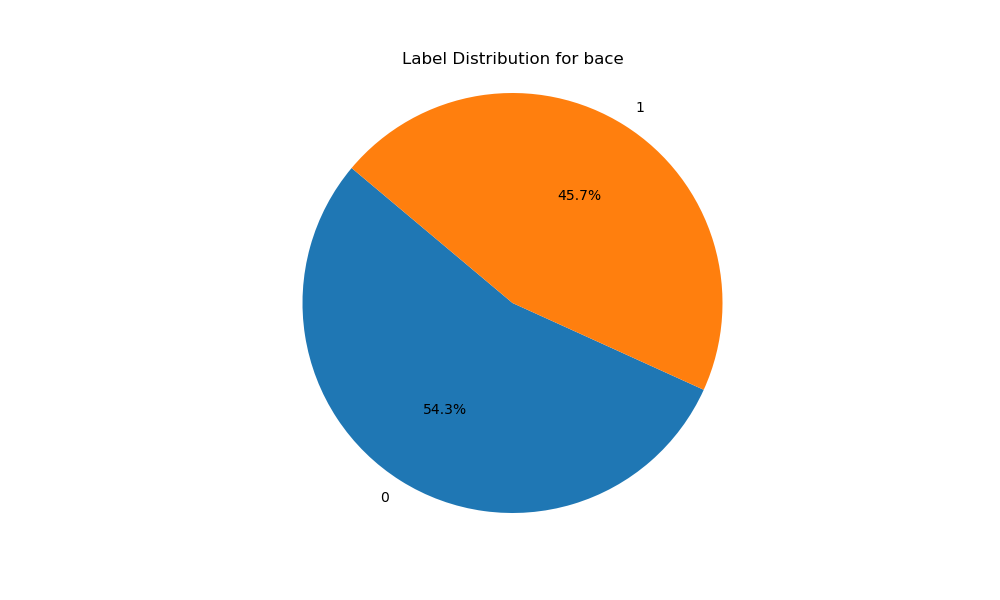
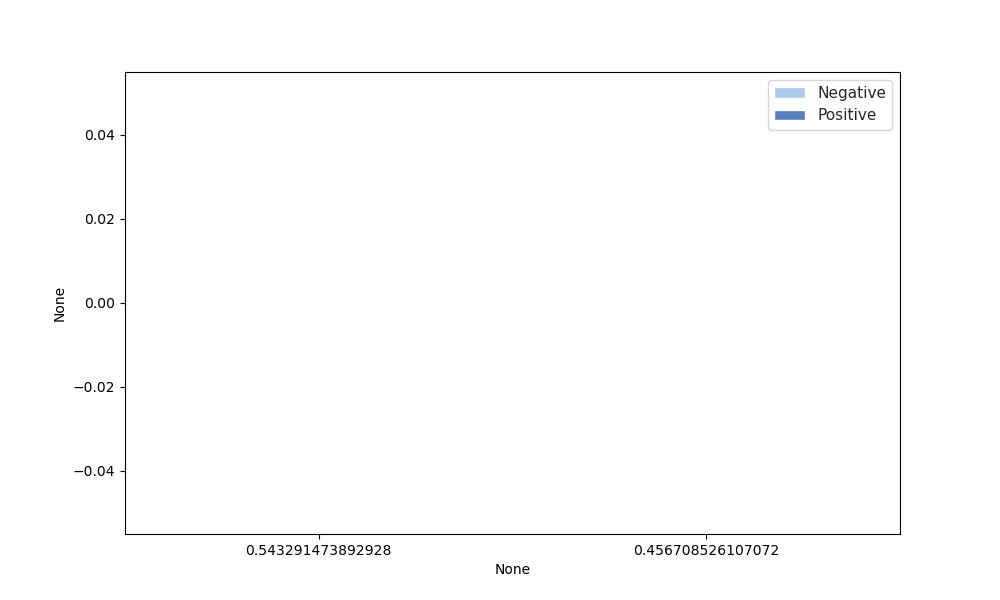
wip

diff --git a/3DInfomax/dataset_statistics/LabelPlotter.py b/3DInfomax/dataset_statistics/LabelPlotter.py
@@ -13,14 +13,41 @@ class LabelPlotter:
     def visualize_label_distribution(self, dataset_name=None):
         if dataset_name in ["lipo", "freesolve", "esol"]:
             self._visualize_regression_label_distribution(dataset_name)
-        elif dataset_name in ["bbbp", "bace", "hiv"]:
-            # Classification datasets with only 1 task
-            self._visualize_single_class_label_distribution(dataset_name)
-        elif dataset_name in ["clintox"]:
-            # Classification datasets with only 2 tasks
-            self._visualize_clintox_label_distribution(dataset_name)
-        elif dataset_name in ["toxcast", "sider", "tox21", "clintox"]:
-            self._visualize_many_class_label_distribution(dataset_name)
+        else:
+            self._visualize_classification_label_distribution(dataset_name)
+
+    def _visualize_classification_label_distribution(self, dataset_name=None):
+        dataset = OGBGDatasetExtension(name=f'ogbg-mol{dataset_name}', return_types=['targets'], device='cuda')
+        # Each label is a tensor with multiple elements/tasks
+        labels = [dataset[i][0].tolist() for i in range(len(dataset))]
+        
+        # for each task compute the ratio of positive and negative lalels
+        label_counts = pd.DataFrame(labels).apply(lambda x: x.value_counts(), axis=0)
+        # Compute the ratio of positive and negative labels without removing the NaN values. Act as the length of eask task are the positive and negative labels combined
+        negative_percentage = label_counts.iloc[0, :] / (label_counts.iloc[0, :] + label_counts.iloc[1, :])
+        # Sort the labels by the ratio of negative labels
+        negative_percentage = negative_percentage.sort_values(ascending=False)
+        positive_percentage = 1 - negative_percentage
+        
+        # Use the sns barplot to plot the ratio of positive and negative labels
+        f, ax = plt.subplots(figsize=(10, 6))
+        sns.set_theme(style="whitegrid")
+        sns.set_color_codes("pastel")
+
+        # Background bar (Negative)
+        sns.barplot(x=negative_percentage, y=negative_percentage.index, label="Negative", color="b")
+        # Overlay bar (Positive)
+        sns.set_color_codes("muted")
+        sns.barplot(x=positive_percentage, y=positive_percentage.index, label="Positive", color="b")
+        # Save the figure
+        output_dir = "dataset_statistics/figures/label_distribution"
+        os.makedirs(output_dir, exist_ok=True)
+        output_path = f"{output_dir}/{dataset_name}_label_distribution.png"
+        plt.savefig(output_path)
+        plt.show()
+
+        
+
 
     def _visualize_clintox_label_distribution(self, dataset_name=None):
 
@@ -98,23 +125,54 @@ class LabelPlotter:
         plt.savefig(output_path)
         plt.show()       
 
-    def _visualize_single_class_label_distribution(self, dataset_name=None):
-        # Load the dataset
-        dataset = OGBGDatasetExtension(name=f'ogbg-mol{dataset_name}', return_types=['targets'], device='cuda')
-        labels = [dataset[i][0].item() for i in range(len(dataset))]
-        # Make a pie chart for these labels
-        label_counts = pd.Series(labels).value_counts()
-        plt.figure(figsize=(10, 6))
-        plt.pie(label_counts, labels=label_counts.index, autopct='%1.1f%%', startangle=140)
-        plt.title(f"Label Distribution for {dataset_name}")
-        plt.axis('equal')  # Equal aspect ratio ensures that pie is drawn as a circle.
-        plt.grid()
-        # Save the figure
-        output_dir = "dataset_statistics/figures/label_distribution"
-        os.makedirs(output_dir, exist_ok=True)
-        output_path = f"{output_dir}/{dataset_name}_label_distribution.png"
-        plt.savefig(output_path)
-        plt.show()
+
+def _visualize_single_class_label_distribution(self, dataset_name=None):
+    # Load the dataset
+    dataset = OGBGDatasetExtension(name=f'ogbg-mol{dataset_name}', return_types=['targets'], device='cuda')
+    labels = [dataset[i][0].item() for i in range(len(dataset))]
+
+    # Compute counts
+    label_counts = pd.Series(labels).value_counts().sort_index()
+    total = label_counts.sum()
+    positive = label_counts.get(1, 0)
+    negative = label_counts.get(0, 0)
+
+    # Data for plotting
+    plot_df = pd.DataFrame({
+        'Label': ['All', 'All'],
+        'Type': ['Negative', 'Positive'],
+        'Ratio': [negative / total, positive / total]
+    })
+
+    # Initialize the matplotlib figure
+    sns.set_theme(style="whitegrid")
+    f, ax = plt.subplots(figsize=(6, 1.5))
+
+    # Background bar (Negative)
+    sns.set_color_codes("pastel")
+    sns.barplot(x="Ratio", y="Label", data=plot_df[plot_df["Type"] == "Negative"],
+                label="Negative", color="b")
+
+    # Overlay bar (Positive)
+    sns.set_color_codes("muted")
+    sns.barplot(x="Ratio", y="Label", data=plot_df[plot_df["Type"] == "Positive"],
+                label="Positive", color="b")
+
+    # Add legend and axis labels
+    ax.legend(ncol=2, loc="lower center", frameon=True, bbox_to_anchor=(0.5, -0.5))
+    ax.set(xlim=(0, 1), ylabel="", xlabel="Proportion")
+    sns.despine(left=True, bottom=True)
+
+    # Save the figure
+    output_dir = "dataset_statistics/figures/label_distribution"
+    os.makedirs(output_dir, exist_ok=True)
+    output_path = f"{output_dir}/{dataset_name}_label_distribution.png"
+    plt.tight_layout()
+    plt.savefig(output_path)
+    plt.show()
+
+        
+        
 
 
     def _visualize_regression_label_distribution(self, dataset_name=None):

diff --git a/3DInfomax/dataset_statistics/FeatureCounter.py b/3DInfomax/dataset_statistics/FeatureCounter.py
@@ -53,6 +53,35 @@ class FeatureCounter:
         plt.savefig(output_path)
         plt.show()
 
+    def get_average_atom_count(self, dataset_name=None):
+        dataset = OGBGDatasetExtension(
+            name=f'ogbg-mol{dataset_name}',
+            return_types=['dgl_graph', 'target'],
+            device='cuda'
+        )
+        atom_counts = []
+        for n in tqdm(range(len(dataset))):
+            graph, _ = dataset[n]
+            atom_counts.append(graph.num_nodes())
+        avg_atom_count = sum(atom_counts) / len(atom_counts)
+        return avg_atom_count
+
+    def get_average_bond_count_per_atom(self, dataset_name=None):
+        dataset = OGBGDatasetExtension(
+            name=f'ogbg-mol{dataset_name}',
+            return_types=['dgl_graph', 'target'],
+            device='cuda'
+        )
+        avg_bond_count_per_atom = []
+        for n in tqdm(range(len(dataset))):
+            graph, _ = dataset[n]
+            num_atoms = graph.num_nodes()
+            num_bonds = graph.num_edges()
+
+            avg_bond_count_per_atom.append(num_bonds / num_atoms if num_atoms > 0 else 0)
+        avg_bond_count_per_atom = sum(avg_bond_count_per_atom) / len(avg_bond_count_per_atom)
+        return avg_bond_count_per_atom
+
     def count_features(self, dataset_name=None, save=False):
         # If the dataset statistics have already been calculated, load them
         if os.path.exists(self.get_save_path(dataset_name, 'node')) and os.path.exists(self.get_save_path(dataset_name, 'edge')):

diff --git a/3DInfomax/dataset_statistics/main.py b/3DInfomax/dataset_statistics/main.py
@@ -4,17 +4,27 @@ import FeatureCounter as fc
 if __name__ == '__main__':
     
     # Visualize the label distribution
-    datasets = ['lipo', 'freesolv', 'esol', 'tox21', 'toxcast', 'clintox', 'bace', 'bbbp', 'hiv', 'sider']
+    datasets = ['lipo', 'freesolv', 'esol', 'tox21', 'toxcast', 'clintox', 'bace', 'bbbp', 'hiv', 'sider', 'muv']
 
     plotter = lp.LabelPlotter()
-    # plotter.visualize_label_distribution("sider")
-    # plotter.visualize_label_distribution("tox21")
+    plotter.visualize_label_distribution("bace")
+    feature_counter = fc.FeatureCounter()
 
-    plotter.visualize_label_distribution("clintox")
-    plotter.visualize_label_distribution("toxcast")
-    plotter.visualize_label_distribution("sider")
-    plotter.visualize_label_distribution("tox21")
-
+    # dataset_statistics = {}
+    # for dataset in datasets:
+    #     avg_atom_count = feature_counter.get_average_atom_count(dataset)
+    #     avg_bond_count_per_atom = feature_counter.get_average_bond_count_per_atom(dataset)
+    #     dataset_statistics[dataset] = {
+    #         'avg_atom_count': avg_atom_count,
+    #         'avg_bond_count_per_atom': avg_bond_count_per_atom
+    #     }
+    
+    # # Print the dataset statistics
+    # for dataset, stats in dataset_statistics.items():
+    #     print(f"Dataset: {dataset}")
+    #     print(f"Average Atom Count: {stats['avg_atom_count']}")
+    #     print(f"Average Bond Count per Atom: {stats['avg_bond_count_per_atom']}")
+    #     print("-" * 30)
 
     
 
